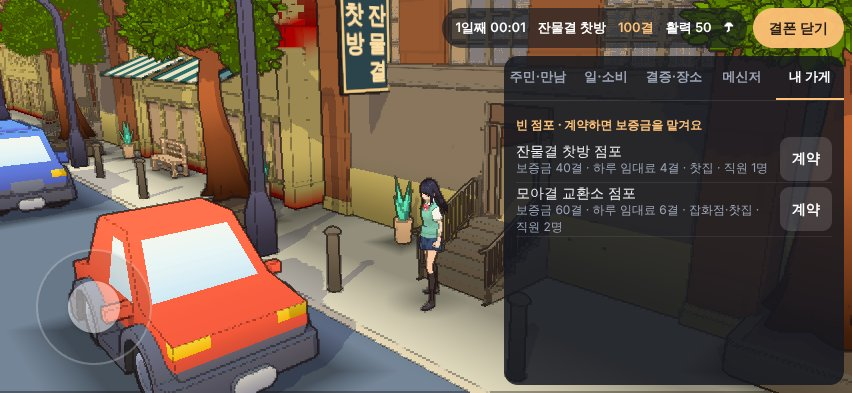
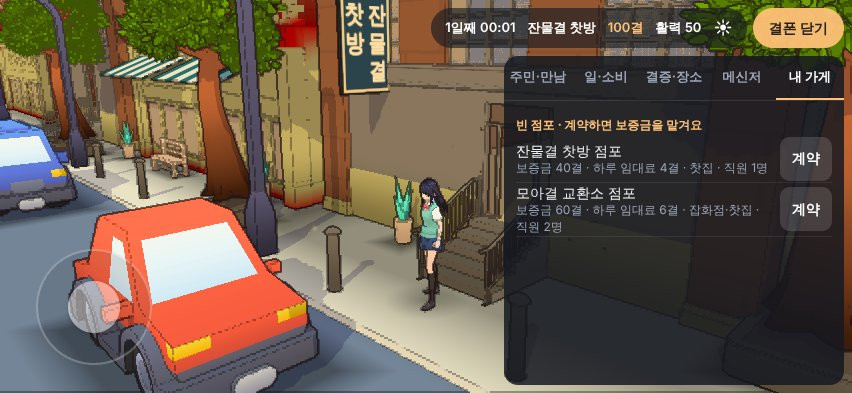
C096 직접 운반: 생산자에게서 상자 받아 뒷방에 내려놓기, 새 게임 배달비
Claude-Session: https://claude.ai/code/session_013Z8KekYTyp1ooBdbZp4cdw

Changed region(s): [[0.4883, 0.0, 0.8545, 0.1221]]

diff --git a/tests/game/haul.test.ts b/tests/game/haul.test.ts
@@ -1,0 +1,81 @@
+import { expect, it } from 'vitest';
+import { createSession, SESSION_KEY } from '../../src/game/session';
+import { gameTime } from '../../src/sim/clock';
+import { transfer } from '../../src/sim/ledger';
+import { CARRY_LIMIT, dropAtShop, pickupOrder, type HaulState } from '../../src/game/tycoon/haul';
+
+function setup(seed = 123, fees?: boolean, data = new Map<string, string>()) {
+  const storage = { getItem: (k: string) => data.get(k) ?? null, setItem: (k: string, v: string) => { data.set(k, v); } };
+  const session = createSession(storage, seed, undefined, fees), { state } = session;
+  const total = () => Object.values(state.world.ledger.balances).reduce((a, b) => a + b, 0);
+  transfer(state.world.ledger, { id: 'capital', from: 'nuel', to: 'player', amount: 200, time: gameTime(state.world.clock), reason: 'Capital transfer' });
+  session.rentStore('shop-unit'); const b = session.openShop('tea');
+  session.tick(600 / state.world.clock.minutesPerSecond); // day 1, 10:00
+  const tea = () => b.store.stock.find(s => s.itemId === 'tea')!;
+  const haul = () => state.tycoon.systems.haul as HaulState;
+  const pickup = (qty: number, item = 'tea', producer = 'nuel') => session.tycoon.command('haul', (ctx, s: HaulState) => pickupOrder(ctx, s, producer, item, qty));
+  const drop = () => session.tycoon.command('haul', (ctx, s: HaulState) => dropAtShop(ctx, s));
+  const goTo = (placeId: string) => { state.player.placeId = placeId; };
+  const atProducer = () => goTo(session.tycoon.ctx().placeOf('nuel'));
+  return { session, state, storage, data, b, tea, haul, pickup, drop, goTo, atProducer, total };
+}
+
+it('C096: pickup then drop puts the exact boxes in the backroom; repeats never duplicate stock', () => {
+  const f = setup(), start = f.total(), cash = f.state.world.ledger.balances.player;
+  f.atProducer(); expect(f.pickup(5).ok).toBe(true);
+  expect(f.haul().load).toEqual({ tea: 5 }); expect(f.session.moveSpeed()).toBe(0.8);
+  expect(f.state.world.ledger.balances.player).toBe(cash - 5 * 2); // producer's cost, no delivery fee
+  expect(f.drop()).toBe(0); expect(f.tea().backroom).toBe(0); // not inside the shop yet
+  f.goTo('shop'); expect(f.drop()).toBe(5); expect(f.drop()).toBe(0);
+  expect(f.tea().backroom).toBe(5); expect(f.haul().load).toEqual({}); expect(f.session.moveSpeed()).toBe(1);
+  const id = f.state.world.ledger.transactions.find(t => t.reason.startsWith('Procurement: shop:lease:0:tea:5'))!.id.replace(/:0$/, '');
+  expect(f.session.tycoon.ctx().settle(id, [{ from: 'player', to: 'nuel', amount: 10, reason: 'again' }])).toEqual({ ok: true, duplicate: true });
+  expect(f.tea().backroom).toBe(5); expect(f.total()).toBe(start);
+  expect(f.state.leases[0].reports).toHaveLength(0);
+});
+
+it('C096: refused away from the producer, outside 07–19, above the carry limit or for a wrong producer', () => {
+  const f = setup(), cash = f.state.world.ledger.balances.player;
+  f.goTo(f.session.tycoon.ctx().placeOf('nuel') === 'park' ? 'office' : 'park');
+  expect(f.pickup(1)).toEqual({ ok: false, error: 'Producer elsewhere' });
+  f.atProducer();
+  expect(f.pickup(CARRY_LIMIT + 1)).toEqual({ ok: false, error: 'Too much to carry' });
+  expect(f.pickup(0).ok).toBe(false); expect(f.pickup(1, 'tea', 'aro').ok).toBe(false); expect(f.pickup(1, 'lamp', 'aro').ok).toBe(false);
+  expect(f.pickup(8).ok).toBe(true); expect(f.pickup(5)).toEqual({ ok: false, error: 'Too much to carry' });
+  expect(f.pickup(4).ok).toBe(true); expect(f.haul().load).toEqual({ tea: 12 });
+  expect(f.state.world.ledger.balances.player).toBe(cash - 12 * 2);
+  f.goTo('shop'); expect(f.drop()).toBe(12);
+  f.session.tick((1200 - 600) / f.state.world.clock.minutesPerSecond); // 20:00
+  f.atProducer(); expect(f.pickup(1, 'bread')).toEqual({ ok: false, error: 'Producer closed' });
+  expect(f.state.world.ledger.transactions.filter(t => t.reason.startsWith('Procurement: shop:lease:0:')).map(t => t.amount)).toEqual([16, 8]);
+});
+
+it('C096: delivery fee goes producer → courier only in a new game; money is conserved', () => {
+  for (const fees of [false, true]) {
+    const f = setup(123, fees), start = f.total(), cash = f.state.world.ledger.balances.player, sori = f.state.world.ledger.balances.sori;
+    expect(f.session.deliveryCost('tea', 5)).toBe(fees ? 2 : 0); expect(f.session.deliveryCost('tea', 30)).toBe(fees ? 6 : 0);
+    expect(f.session.orderStock('nuel', 'tea', 30).ok).toBe(true);
+    expect(f.state.world.ledger.balances.player).toBe(cash - 60 - (fees ? 6 : 0));
+    expect(f.state.world.ledger.balances.sori).toBe(sori + (fees ? 6 : 0));
+    expect(f.state.world.ledger.transactions.some(t => t.reason.startsWith('Delivery: ') && t.from === 'nuel' && t.to === 'sori')).toBe(fees);
+    expect(f.total()).toBe(start);
+    f.session.tick(1440 / f.state.world.clock.minutesPerSecond); expect(f.tea().backroom + f.tea().displayed).toBe(30);
+  }
+  const loaded = setup(123, true), again = createSession(loaded.storage, undefined, undefined, true);
+  expect((again.state.tycoon.systems.haul as HaulState).fee).toBe(true);
+  const old = setup(123, false), reopened = createSession(old.storage);
+  expect(reopened.deliveryCost('tea', 5)).toBe(0); // an existing game stays without fees
+});
+
+it('C096: carried boxes survive save/load; one long tick equals minute ticks', () => {
+  const f = setup(); f.atProducer(); f.pickup(3); f.session.saveNow();
+  expect(JSON.parse(f.data.get(SESSION_KEY)!).version).toBe(6);
+  const restored = createSession(f.storage); expect(restored.loadResult.ok).toBe(true);
+  expect((restored.state.tycoon.systems.haul as HaulState).load).toEqual({ tea: 3 }); expect(restored.moveSpeed()).toBe(0.8);
+  const whole = setup(7), split = setup(7);
+  for (const g of [whole, split]) { g.atProducer(); expect(g.pickup(4).ok).toBe(true); g.goTo('shop'); g.drop(); }
+  whole.session.tick(1440 / whole.state.world.clock.minutesPerSecond);
+  for (let i = 0; i < 1440; i++) split.session.tick(1 / split.state.world.clock.minutesPerSecond);
+  expect(split.state.world.ledger.balances).toEqual(whole.state.world.ledger.balances);
+  expect(split.state.book).toEqual(whole.state.book); expect(split.state.tycoon).toEqual(whole.state.tycoon);
+});

diff --git a/src/ui/shop.ts b/src/ui/shop.ts
@@ -8,6 +8,7 @@ import { gameTime } from '../sim/clock';
 import { dailySummary } from '../sim/store';
 import { weatherFor } from '../sim/weather';
 import type { createSession } from '../game/session';
+import { carried, dropAtShop, pickupOrder, pickupProblem, type HaulState } from '../game/tycoon/haul';
 
 type Session = ReturnType<typeof createSession>;
 type State = Session['state'];
@@ -31,19 +32,20 @@ const playerShop = (state: State) => {
   const lease = activeLease(state);
   return lease && state.book.businesses.find(b => b.id === lease.businessId && b.closedAt === null);
 };
+const haulOf = (state: State) => state.tycoon.systems.haul as HaulState;
 const staff = (state: State, businessId: string) => state.book.employment.filter(e => e.businessId === businessId && e.leftAt === null);
 let wage = 5, reply = '', replyTo = '';
 
 // Status-bar extras: today's weather glyph and the latest lease's arrears warning.
 export function shopStatus(state: State) {
   const lease = state.leases.at(-1), [icon, name] = weathers[weatherFor(state.npcSeed, gameTime(state.world.clock).day)];
-  return { icon, name, warning: lease?.warning === 'shop.unpaid' ? `⚠ 연체 ${lease.arrears}일`
+  return { icon, name, load: carried(haulOf(state)), warning: lease?.warning === 'shop.unpaid' ? `⚠ 연체 ${lease.arrears}일`
     : lease?.warning === 'shop.closed.arrears' ? '⚠ 가게 닫힘' : '' };
 }
 // What decides a rebuild of this tab: lease/shop lifecycle, pending orders, reports and staff.
 export function shopKey(state: State) {
   const b = playerShop(state);
-  return [state.leases.map(l => [l.id, l.ended, l.businessId, l.orders.filter(o => !o.delivered).length, l.reports.length]),
+  return [state.leases.map(l => [l.id, l.ended, l.businessId, l.orders.filter(o => !o.delivered).length, l.reports.length]), haulOf(state).load,
     b ? staff(state, b.id).map(e => e.actorId) : []];
 }
 // Relationship-aware answers: friends speak casually, everyone else politely.
@@ -91,18 +93,33 @@ export function shopTab(session: Session, ui: ShopUi) {
     ['어제 순이익', () => lease.reports.length ? `${signed(lease.reports.at(-1)!.net)}결` : '–'],
     ['평판', () => signed(state.reputation.player ?? 0)], ['날씨', () => shopStatus(state).name],
   ] as const) live(make('', make('', stats, 'div', label), 'b'), text);
-  title('재고 · 판매가 · 주문 (내일 입고)');
+  const load = carried(haulOf(state));
+  if (load) button(row(`들고 있는 상자 📦×${load}`, state.player.placeId === b.placeId ? '가게 안이에요' : `${ui.placeName(b.placeId)} 가게로 가져가세요 · 걸음이 느려요`),
+    '뒷방에 내려놓기', () => `상자 ${session.tycoon.command('haul', (ctx, h: HaulState) => dropAtShop(ctx, h))}개를 뒷방에 넣었어요`,
+    state.player.placeId !== b.placeId);
+  title('재고 · 판매가 · 주문 (배달은 내일, 직접 가면 지금)');
   for (const s of b.store.stock) {
     const supplier = ui.residents.find(n => n.job === producerJobs[s.itemId]);
     const pending = () => lease.orders.filter(o => !o.delivered && o.itemId === s.itemId).reduce((n, o) => n + o.quantity, 0);
+    const where = () => supplier ? session.tycoon.ctx().placeOf(supplier.id) : '';
     const line = row(itemName(s.itemId), () => `${s.backroom + s.displayed}개${pending() ? ` · 입고 예정 ${pending()}` : ''}`
       + `\n원가 ${unitCost(s.itemId)}결 · 판매가 ${s.price}결`);
     button(line, '−', () => session.setShopPrice(s.itemId, s.price - 1), () => s.price <= 1).setAttribute('aria-label', `${itemName(s.itemId)} 값 내리기`);
     button(line, '+', () => session.setShopPrice(s.itemId, s.price + 1)).setAttribute('aria-label', `${itemName(s.itemId)} 값 올리기`);
+    const fee = session.deliveryCost(s.itemId, 5), here = !!supplier && state.player.placeId === where(), order = make('hud-chips', body);
+    if (supplier) live(make('hud-sub', order, 'span'), () => `주문 5 = 배달 (배달비 ${fee}결 · 내일)\n생산자 ${supplier.name} · 지금 ${ui.placeName(where())} (07–19시)`);
     button(line, '주문 5', () => {
       const result = session.orderStock(supplier!.id, s.itemId, 5);
       if (!result.ok) throw Error(result.error);
-      return `${itemName(s.itemId)} 5개 주문 (-${5 * unitCost(s.itemId)}결) · 내일 입고`;
+      return `${itemName(s.itemId)} 5개 배달 주문 (-${5 * unitCost(s.itemId) + fee}결, 배달비 ${fee}결) · 내일 입고`;
+    }, !supplier);
+    button(order, here ? '상자 받기 5 · 지금' : '직접 가지러 가기 · 배달비 0', () => {
+      const problem = pickupProblem(session.tycoon.ctx(), haulOf(state), supplier!.id, s.itemId, 5);
+      if (problem === 'Producer elsewhere') return `${supplier!.name} 님은 지금 ${ui.placeName(where())}에 있어요 · 가서 받으면 배달비 0`;
+      if (problem) return { 'Producer closed': '생산자는 07–19시에만 내줘요', 'Too much to carry': '상자는 12개까지만 들 수 있어요' }[problem] ?? '지금은 받을 수 없어요';
+      const result = session.tycoon.command('haul', (ctx, h: HaulState) => pickupOrder(ctx, h, supplier!.id, s.itemId, 5));
+      if (!result.ok) throw Error(result.error);
+      return `${itemName(s.itemId)} 상자 5개를 받았어요 (-${5 * unitCost(s.itemId)}결) · 가게 뒷방에 내려놓으세요`;
     }, !supplier);
   }
   const employees = staff(state, b.id);

diff --git a/src/game/session.ts b/src/game/session.ts
@@ -13,6 +13,7 @@ import { compactLedger, isRecorded } from '../sim/ledger';
 import { restoreWorld } from '../sim/save';
 import { roll as tycoonRoll, settle as tycoonSettle, nextId as tycoonNextId } from '../sim/tycoonCore';
 import { tycoonSystems } from './tycoon/registry';
+import { deliveryFee, speedFactor, unitCost, COURIER_JOB, type HaulState } from './tycoon/haul';
 import type { TycoonCtx, TycoonSystem } from './tycoon/system';
 import { emptyTycoon, createTycoon, restoreTycoon, runMinute, runDay, type TycoonState } from './tycoon/state';
 import { whereIs, validateTime } from '../sim/npc';
@@ -185,7 +186,9 @@ function checkSocial(state: ReturnType<typeof freshState>): void {
         || n.mode === 'rumor' && [1, 2].includes(n.hops) && n.sourceId !== n.observerId && n.learned >= n.created + 60 * n.hops));
   }
 }
-export function createSession(storage: Storage, npcSeed?: number, systems: readonly TycoonSystem<any>[] = tycoonSystems) {
+// deliveryFees (C096): only a brand-new game charges delivery; seeded test sessions and older saves keep C087's numbers.
+export function createSession(storage: Storage, npcSeed?: number, systems: readonly TycoonSystem<any>[] = tycoonSystems,
+  deliveryFees = npcSeed === undefined) {
   let state = freshState(npcSeed), lastSaved = 0, damaged: string | null = null, tycoonReady = false;
   const ctxFor = (t: TycoonState, people: readonly Npc[], time = gameTime(state.world.clock)): TycoonCtx => ({
     world: state.world, book: state.book, leases: state.leases, purses: state.purses, residents: people,
@@ -330,6 +333,8 @@ export function createSession(storage: Storage, npcSeed?: number, systems: reado
   const residents = addResidents(state);
   const ctx = (t = state.tycoon, time?: GameTime) => ctxFor(t, residents, time);
   if (!tycoonReady) state.tycoon = createTycoon(systems, ctx);
+  const haulState = () => state.tycoon.systems.haul as HaulState | undefined;
+  if (!tycoonReady && deliveryFees && haulState()) haulState()!.fee = true;
   for (const n of residents) state.world.people[n.id] =
     { id: n.id, name: n.name, role: 'npc', placeId: staffPlace(n, gameTime(state.world.clock)) };
   lastSaved = state.world.clock.totalMinutes;
@@ -339,7 +344,7 @@ export function createSession(storage: Storage, npcSeed?: number, systems: reado
       if (state.world.people.player) state.world.people.player.placeId = state.player.placeId;
       const people = Object.fromEntries(Object.entries(state.world.people).filter(([id]) => !id.startsWith('generated-')));
       // An empty tycoon container reads back identically from v5, so older builds can still open it.
-      const version = state.tycoon.seq || Object.keys(state.tycoon.systems).length ? 6 : 5;
+      const version = JSON.stringify(state.tycoon) === JSON.stringify(createTycoon(systems, ctx)) ? 5 : 6;
       storage.setItem(SESSION_KEY, JSON.stringify({ version, state: { ...state, world: { ...state.world, people } } }));
       lastSaved = state.world.clock.totalMinutes;
       return { ok: true };
@@ -379,11 +384,16 @@ export function createSession(storage: Storage, npcSeed?: number, systems: reado
       const result = procure(state.book, state.world.people, state.world.ledger, b.id, producer, itemId,
         quantity, Math.max(1, Math.floor(item.price / 4)), id, now);
       if (result.ok && !result.duplicate) {
+        // C096: the delivery fee passes through the producer to a courier resident (no money created).
+        const courier = residents.find(n => n.job === COURIER_JOB && n.id !== producer.id), fee = shops.deliveryCost(itemId, quantity);
+        if (courier && fee) tycoonSettle(state.world.ledger, `${id}:fee`, [{ from: 'player', to: producer.id, amount: fee, reason: `Procurement: ${b.id}:delivery:${fee}` },
+          { from: producer.id, to: courier.id, amount: fee, reason: `Delivery: ${id}` }], now);
         b.store.stock.find(s => s.itemId === itemId)!.backroom -= quantity;
         lease.orders.push({ id, itemId, quantity, arrival: minuteOf(now) + 1440, delivered: false }); saveNow();
       }
       return result;
     },
+    deliveryCost: (itemId: string, quantity: number) => haulState()?.fee ? deliveryFee(quantity * unitCost(itemId)) : 0,
     setShopPrice(itemId: string, price: number) { setPrice(playerShop().store, itemId, price); saveNow(); },
     offerJob(npcId: string, hourlyWage: number) {
       const b = playerShop(), now = gameTime(state.world.clock), npc = residents.find(n => n.id === npcId);
@@ -827,5 +837,7 @@ export function createSession(storage: Storage, npcSeed?: number, systems: reado
       const result = fn(ctx(), state.tycoon.systems[systemId] as S); saveNow(); return result;
     },
   };
-  return { state, loadResult, tick, saveNow, startWork, ...social, ...shops, tycoon };
+  /** C096: player walking-speed multiplier for main's movement (slower while carrying boxes). */
+  const moveSpeed = () => haulState() ? speedFactor(haulState()!) : 1;
+  return { state, loadResult, tick, saveNow, startWork, ...social, ...shops, tycoon, moveSpeed };
 }

diff --git a/src/game/tycoon/haul.ts b/src/game/tycoon/haul.ts
@@ -1,0 +1,63 @@
+// C096 직접 운반: the player buys boxes at the producer's place (no delivery fee, now) and carries them to the shop's backroom.
+import { items } from '../../data/items';
+import { producerJobs } from '../../sim/business';
+import type { TransferResult } from '../../sim/ledger';
+import type { TycoonCtx, TycoonSystem } from './system';
+
+/** fee: this game charges delivery on session.orderStock (new games only). */
+export interface HaulState { load: Record<string, number>; fee: boolean }
+export const CARRY_LIMIT = 12, CARRY_SPEED = 0.8, PICKUP_HOURS = [7, 19] as const, COURIER_JOB = '공유물 순환지기';
+/** Producer's price per unit, as session.orderStock. */
+export const unitCost = (itemId: string) => Math.max(1, Math.floor((items.find(i => i.id === itemId)?.price ?? 4) / 4));
+/** Delivery: 10% of the order, at least 2. */
+export const deliveryFee = (amount: number) => Math.max(2, Math.floor(amount / 10));
+export const carried = (s: HaulState) => Object.values(s.load).reduce((n, q) => n + q, 0);
+export const speedFactor = (s: HaulState) => carried(s) ? CARRY_SPEED : 1;
+
+function playerShop(ctx: TycoonCtx) {
+  const lease = ctx.leases.find(l => !l.ended && l.businessId);
+  return ctx.book.businesses.find(b => b.id === lease?.businessId && b.closedAt === null);
+}
+/** Why a pickup is refused right now, or '' when it can go ahead. */
+export function pickupProblem(ctx: TycoonCtx, s: HaulState, producerId: string, itemId: string, qty: number): string {
+  const producer = ctx.residents.find(n => n.id === producerId), b = playerShop(ctx);
+  if (!producer || !b?.store.stock.some(x => x.itemId === itemId) || producer.job !== producerJobs[itemId]) return 'Invalid pickup';
+  if (!Number.isSafeInteger(qty) || qty < 1 || carried(s) + qty > CARRY_LIMIT) return 'Too much to carry';
+  if (ctx.time.hour < PICKUP_HOURS[0] || ctx.time.hour >= PICKUP_HOURS[1]) return 'Producer closed';
+  if (ctx.player.placeId !== ctx.placeOf(producerId)) return 'Producer elsewhere';
+  return '';
+}
+export function pickupOrder(ctx: TycoonCtx, s: HaulState, producerId: string, itemId: string, qty: number): TransferResult {
+  const problem = pickupProblem(ctx, s, producerId, itemId, qty);
+  if (problem) return { ok: false, error: problem };
+  const unit = unitCost(itemId), b = playerShop(ctx)!;
+  const result = ctx.settle(ctx.nextId('haul'), [{ from: 'player', to: producerId, amount: qty * unit,
+    reason: `Procurement: ${b.id}:${itemId}:${qty}:${unit}` }]);
+  if (result.ok && !result.duplicate) s.load[itemId] = (s.load[itemId] ?? 0) + qty;
+  return result;
+}
+/** Moves the whole load into the backroom; only inside the player's open shop. Returns the boxes moved. */
+export function dropAtShop(ctx: TycoonCtx, s: HaulState): number {
+  const b = playerShop(ctx);
+  if (!b || ctx.player.placeId !== b.placeId) return 0;
+  let moved = 0;
+  for (const [itemId, qty] of Object.entries(s.load)) {
+    const stock = b.store.stock.find(x => x.itemId === itemId);
+    if (!stock) continue;
+    stock.backroom += qty; moved += qty; delete s.load[itemId];
+  }
+  return moved;
+}
+
+export const haul: TycoonSystem<HaulState> = {
+  id: 'haul',
+  create: () => ({ load: {}, fee: false }),
+  validate(raw) {
+    const { load, fee } = (raw ?? {}) as HaulState;
+    if (typeof fee !== 'boolean' || !load || typeof load !== 'object' || Array.isArray(load) || Object.entries(load).some(([id, q]) =>
+      !items.some(i => i.id === id) || !Number.isSafeInteger(q) || q < 1)) throw Error('Invalid haul');
+    const s = { load: { ...load }, fee };
+    if (carried(s) > CARRY_LIMIT) throw Error('Invalid haul');
+    return s;
+  },
+};

diff --git a/src/ui/hud.ts b/src/ui/hud.ts
@@ -45,7 +45,7 @@ export function hud(session: Session, residents: readonly (Npc | GeneratedNpc)[]
   const stick = make('stick'), knob = make('knob', stick);
   const enter = make('enter', document.body, 'button'), toast = make('toast');
   const top = make('hud-top'), status = make('hud-status', top);
-  const [timeText, placeText, cashText, energyText, weatherText, warnText] = [0, 1, 2, 3, 4, 5].map(() => make('', status, 'span'));
+  const [timeText, placeText, cashText, energyText, weatherText, warnText, loadText] = [0, 1, 2, 3, 4, 5, 6].map(() => make('', status, 'span'));
   warnText.className = 'hud-warn';
   weatherText.className = 'hud-weather';
   const phone = make('hud-open', top, 'button', '결폰 열기');
@@ -311,6 +311,7 @@ export function hud(session: Session, residents: readonly (Npc | GeneratedNpc)[]
     weatherText.textContent = shop.icon;
     weatherText.title = shop.name;
     warnText.textContent = shop.warning;
+    loadText.textContent = shop.load ? `📦×${shop.load}` : ''; // C096: boxes carried by hand
     pending ||= force;
     if (panel.hidden) return;
     const membership = tab === 'people'

diff --git a/tests/game/session.test.ts b/tests/game/session.test.ts
@@ -218,7 +218,7 @@ it('round trips v4 memories, dating, bond receipts/budgets and ripple notices wi
     hops: 0, mode: 'witness', kind: 'help', actorId: 'player', targetId: 'lise', topic: '차' });
   session.tick(1440); const ctx = { actorId: 'player', npc, time: gameTime(state.world.clock), value: 30 };
   const recalled = buildDialogue(state.dialogue, ctx).line; session.saveNow();
-  const saved = JSON.parse(storage.getItem(SESSION_KEY)!); expect(saved.version).toBe(5);
+  const saved = JSON.parse(storage.getItem(SESSION_KEY)!); expect(saved.version).toBe(6);
   expect(Object.keys(saved.state.world.people).some(id => id.startsWith('generated-'))).toBe(false);
   const next = createSession(storage); expect(next.loadResult.ok).toBe(true); expect(next.state).toEqual(state);
   expect(next.state.dialogue.memories.lise.entries[0].mentionedAt).toBe(1440);

diff --git a/tests/game/tycoon-registry.test.ts b/tests/game/tycoon-registry.test.ts
@@ -46,7 +46,7 @@ it('C093: a v5 save opens with an empty tycoon container and unchanged money, le
   const raw = storage.getItem(SESSION_KEY)!; expect(JSON.parse(raw).version).toBe(5);
   const before = JSON.parse(raw).state;
   const empty = createSession(storage);
-  expect(empty.loadResult.ok).toBe(true); expect(empty.tycoon.state()).toEqual(emptyTycoon());
+  expect(empty.loadResult.ok).toBe(true); expect(empty.tycoon.state()).toEqual({ ...emptyTycoon(), systems: { haul: { load: {}, fee: false } } }); // C096: haul is registered
   const withSystems = createSession(storage, undefined, systems);
   for (const next of [empty, withSystems]) {
     expect(next.state.world.ledger.balances).toEqual(before.world.ledger.balances);

diff --git a/src/game/tycoon/registry.ts b/src/game/tycoon/registry.ts
@@ -1,4 +1,5 @@
 import type { TycoonSystem } from './system';
+import { haul } from './haul';
 
 /** Processing order = array order. Add a system with one import and one entry. */
-export const tycoonSystems: TycoonSystem<any>[] = [];
+export const tycoonSystems: TycoonSystem<any>[] = [haul];

diff --git a/cards/C096.md b/cards/C096.md
@@ -6,6 +6,8 @@
 - src/game/session.ts — orderStock에 배달비 다리 추가(기존 테스트 숫자가 바뀌면 보고하고 배달비를 옵션 기본 0으로 두고 새 게임만 켜기), 플레이어 이동 속도 배수 노출.
 - src/ui/shop.ts, src/ui/hud.ts — 생산자 근처에서 "상자 받기"(품목·수량), 가게 안에서 "뒷방에 내려놓기", 상단에 짐 표시(📦×n). 내 가게 탭 주문 화면에 "직접 가지러 가기(배달비 0, 지금)" vs "배달(배달비 n결, 내일)" 두 버튼과 생산자 위치 안내.
 - tests/game/haul.test.ts (새)
+- tests/play/haul.mjs (새, 통과 기준의 플레이 시나리오)
+- tests/game/session.test.ts, tests/game/tycoon-registry.test.ts (haul 등록으로 세이브 v6·빈 레지스트리 기대 한 줄씩, 마스터 승인 기준 갱신)
 크기: 큼(≤400줄, 마스터 이유: 시스템·세션·UI)
 하지 말 것: C087 수요·밸런스 숫자 변경, 기존 테스트 수정, 재고 복제(받기·내려놓기 중복 명령 무효), Math.random.
 통과 기준(테스트): 받기→내려놓기 후 뒷방 수량 정확, 같은 명령 재실행 중복 없음, 생산자 장소 밖·영업 시간 밖 거부, 짐 상한, 배달비 이체·총액 보존, 저장 후 들고 있는 짐 복원, 틱 분할 동일. 플레이 시나리오(tests/play/haul.mjs): 가게 → 생산자 → 받기 → 가게 → 내려놓기 → 진열 → 판매가 3분 안. 폰 가로 스크린샷 2장(.shots-c096/) 직접 확인. `bash tools/check.sh --card cards/C096.md --fast` PASS(Blender·180일 시간 초과 환경 예외).
